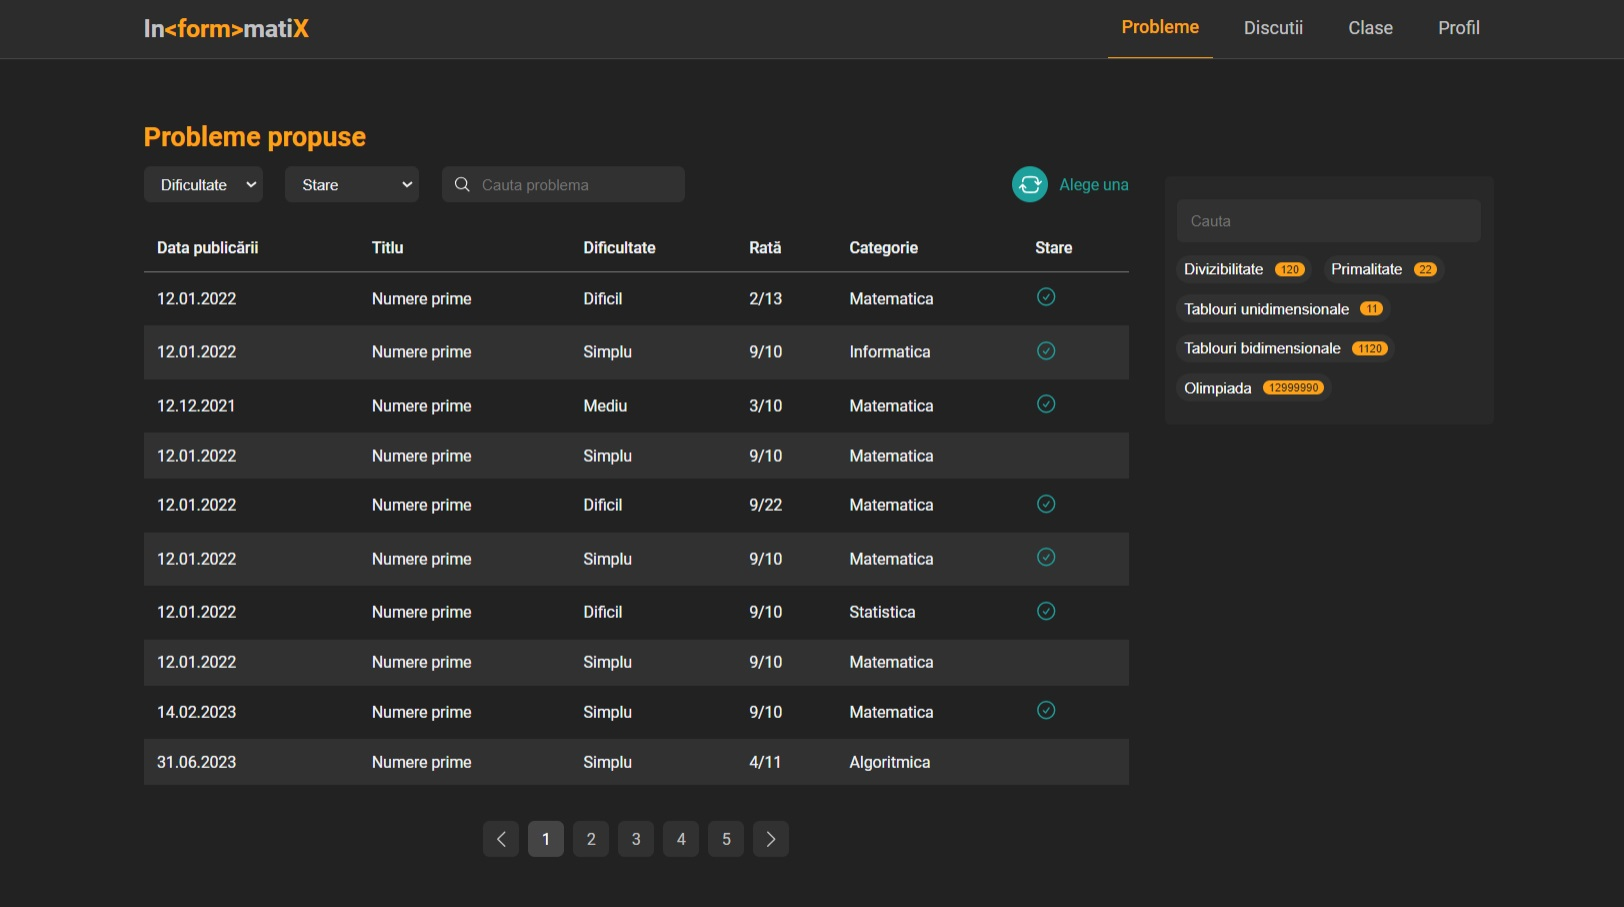
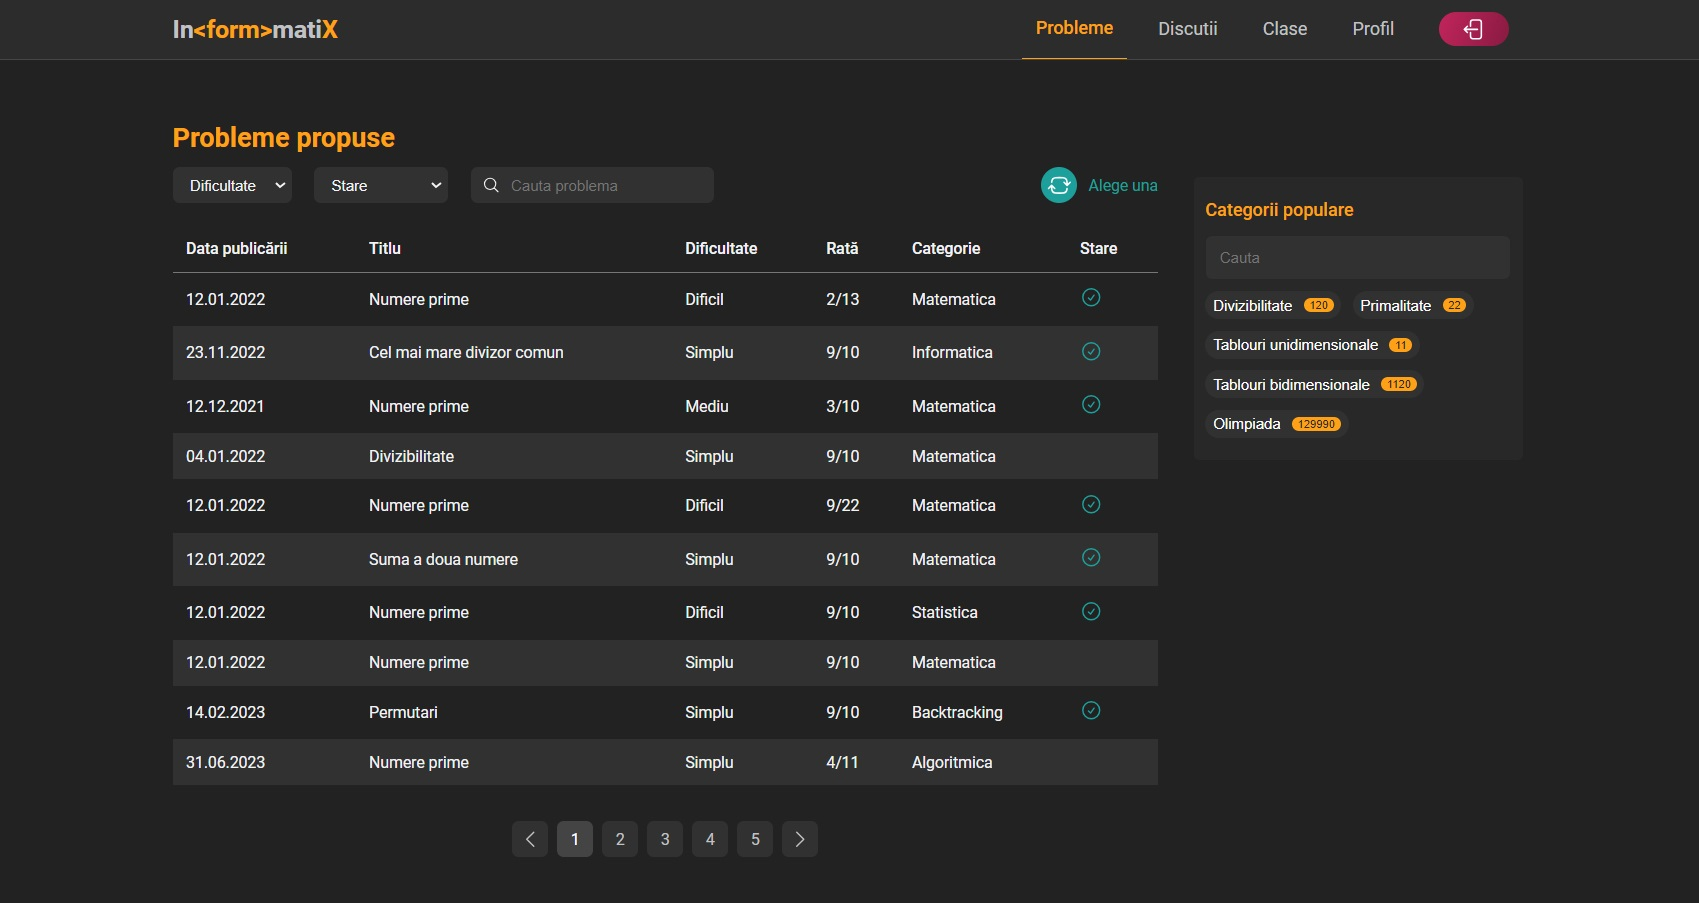
fixed header

diff --git a/assets/scripts/header.js b/assets/scripts/header.js
@@ -1,69 +1,88 @@
-// const header = document.createElement("header");
-// header.classList.add("header");
-// header.innerHTML = `
-// <div class="container header-main">
-//   <div>
-//     <a href="#" class="logo"
-//       >In<span class="logo-color">&lt;form&gt;</span>mati<span
-//         class="logo-color"
-//         >X</span
-//       ></a
-//     >
-//   </div>
-//   <nav>
-//     <ul class="nav-list">
-//       <li class="nav-list-el page-active"><a href="">Probleme</a></li>
-//       <li class="nav-list-el"><a href="">Discutii</a></li>
-//       <li class="nav-list-el"><a href="">Clase</a></li>
-//       <li class="nav-list-el"><a href="">Profil</a></li>
-//       <li class="logo-mobile-menu">
-//         <span class="logo"
-//           >In<span class="logo-color">&lt;form&gt;</span>mati<span
-//             class="logo-color"
-//             >X</span
-//           ></span
-//         >
-//       </li>
-//       <li class="header__menu-close">
-//         <svg
-//           xmlns="http://www.w3.org/2000/svg"
-//           fill="none"
-//           viewBox="0 0 24 24"
-//           stroke-width="1.5"
-//           stroke="currentColor"
-//           class="header__menu-btn-close"
-//         >
-//           <path
-//             stroke-linecap="round"
-//             stroke-linejoin="round"
-//             d="M6 18 18 6M6 6l12 12"
-//           />
-//         </svg>
-//       </li>
-//     </ul>
-//     <div class="header__menu">
-//       <svg
-//         xmlns="http://www.w3.org/2000/svg"
-//         fill="none"
-//         viewBox="0 0 24 24"
-//         stroke-width="1.5"
-//         stroke="currentColor"
-//         class="header__menu-btn"
-//       >
-//         <path
-//           stroke-linecap="round"
-//           stroke-linejoin="round"
-//           d="M3.75 6.75h16.5M3.75 12h16.5m-16.5 5.25h16.5"
-//         />
-//       </svg>
-//     </div>
-//   </nav>
-// </div>
-// `;
+const header = document.createElement("header");
+header.classList.add("header");
+header.innerHTML = `
+<div class="container header-main">
+        <div>
+          <a href="#" class="logo"
+            >In<span class="logo-color">&lt;form&gt;</span>mati<span
+              class="logo-color"
+              >X</span
+            ></a
+          >
+        </div>
+        <nav>
+          <ul class="nav-list">
+            <li class="nav-list-el page-active"><a href="">Probleme</a></li>
+            <li class="nav-list-el"><a href="">Discutii</a></li>
+            <li class="nav-list-el"><a href="">Clase</a></li>
+            <li class="nav-list-el"><a href="">Profil</a></li>
+            <li class="nav-list-el disconnect">
+              <button class="btn btn-logout">
+                <svg
+                  xmlns="http://www.w3.org/2000/svg"
+                  fill="none"
+                  viewBox="0 0 24 24"
+                  stroke-width="1.5"
+                  stroke="currentColor"
+                  class="logout-icon"
+                >
+                  <path
+                    stroke-linecap="round"
+                    stroke-linejoin="round"
+                    d="M8.25 9V5.25A2.25 2.25 0 0 1 10.5 3h6a2.25 2.25 0 0 1 2.25 2.25v13.5A2.25 2.25 0 0 1 16.5 21h-6a2.25 2.25 0 0 1-2.25-2.25V15m-3 0-3-3m0 0 3-3m-3 3H15"
+                  />
+                </svg>
+              </button>
+              <a class="disconnect-link" href="">Deconectare</a>
+            </li>
+            <li class="logo-mobile-menu">
+              <span class="logo"
+                >In<span class="logo-color">&lt;form&gt;</span>mati<span
+                  class="logo-color"
+                  >X</span
+                ></span
+              >
+            </li>
+            <li class="header__menu-close">
+              <svg
+                xmlns="http://www.w3.org/2000/svg"
+                fill="none"
+                viewBox="0 0 24 24"
+                stroke-width="1.5"
+                stroke="currentColor"
+                class="header__menu-btn-close"
+              >
+                <path
+                  stroke-linecap="round"
+                  stroke-linejoin="round"
+                  d="M6 18 18 6M6 6l12 12"
+                />
+              </svg>
+            </li>
+          </ul>
+          <div class="header__menu">
+            <svg
+              xmlns="http://www.w3.org/2000/svg"
+              fill="none"
+              viewBox="0 0 24 24"
+              stroke-width="1.5"
+              stroke="currentColor"
+              class="header__menu-btn"
+            >
+              <path
+                stroke-linecap="round"
+                stroke-linejoin="round"
+                d="M3.75 6.75h16.5M3.75 12h16.5m-16.5 5.25h16.5"
+              />
+            </svg>
+          </div>
+        </nav>
+      </div>
+`;
 
-// const mainElement = document.getElementsByTagName("main")[0];
+const mainElement = document.getElementsByTagName("main")[0];
 
-// mainElement.insertAdjacentElement("beforebegin", header);
+mainElement.insertAdjacentElement("beforebegin", header);
 
 const menuBtn = document.querySelector(".header__menu");
 const closeBtn = document.querySelector(".header__menu-close");

diff --git a/pages/problems.html b/pages/problems.html
@@ -12,85 +12,6 @@
     <title>InformatiX</title>
   </head>
   <body>
-    <header class="header">
-      <div class="container header-main">
-        <div>
-          <a href="#" class="logo"
-            >In<span class="logo-color">&lt;form&gt;</span>mati<span
-              class="logo-color"
-              >X</span
-            ></a
-          >
-        </div>
-        <nav>
-          <ul class="nav-list">
-            <li class="nav-list-el page-active"><a href="">Probleme</a></li>
-            <li class="nav-list-el"><a href="">Discutii</a></li>
-            <li class="nav-list-el"><a href="">Clase</a></li>
-            <li class="nav-list-el"><a href="">Profil</a></li>
-            <li class="nav-list-el disconnect">
-              <button class="btn btn-logout">
-                <svg
-                  xmlns="http://www.w3.org/2000/svg"
-                  fill="none"
-                  viewBox="0 0 24 24"
-                  stroke-width="1.5"
-                  stroke="currentColor"
-                  class="logout-icon"
-                >
-                  <path
-                    stroke-linecap="round"
-                    stroke-linejoin="round"
-                    d="M8.25 9V5.25A2.25 2.25 0 0 1 10.5 3h6a2.25 2.25 0 0 1 2.25 2.25v13.5A2.25 2.25 0 0 1 16.5 21h-6a2.25 2.25 0 0 1-2.25-2.25V15m-3 0-3-3m0 0 3-3m-3 3H15"
-                  />
-                </svg>
-              </button>
-              <a class="disconnect-link" href="">Deconectare</a>
-            </li>
-            <li class="logo-mobile-menu">
-              <span class="logo"
-                >In<span class="logo-color">&lt;form&gt;</span>mati<span
-                  class="logo-color"
-                  >X</span
-                ></span
-              >
-            </li>
-            <li class="header__menu-close">
-              <svg
-                xmlns="http://www.w3.org/2000/svg"
-                fill="none"
-                viewBox="0 0 24 24"
-                stroke-width="1.5"
-                stroke="currentColor"
-                class="header__menu-btn-close"
-              >
-                <path
-                  stroke-linecap="round"
-                  stroke-linejoin="round"
-                  d="M6 18 18 6M6 6l12 12"
-                />
-              </svg>
-            </li>
-          </ul>
-          <div class="header__menu">
-            <svg
-              xmlns="http://www.w3.org/2000/svg"
-              fill="none"
-              viewBox="0 0 24 24"
-              stroke-width="1.5"
-              stroke="currentColor"
-              class="header__menu-btn"
-            >
-              <path
-                stroke-linecap="round"
-                stroke-linejoin="round"
-                d="M3.75 6.75h16.5M3.75 12h16.5m-16.5 5.25h16.5"
-              />
-            </svg>
-          </div>
-        </nav>
-      </div>
-    </header>
     <main class="container grid problems-grid margin-top-md margin-bt-bg">
       <section class="problems">
         <h2 class="header-secondary">Probleme propuse</h2>

diff --git a/pages/problem.html b/pages/problem.html
@@ -33,7 +33,7 @@
             <h2>Condiție:</h2>
           </div>
           <div class="problem__content">
-            <h1 class="problem__title">Palindrome Number</h1>
+            <h1 class="problem__title">Numar palindrom</h1>
             <span class="problem__dificulty">Ușor</span>
             <p class="problem__content-text">
               Dat un număr întreg x, returnează true dacă x este a palindrom, si
